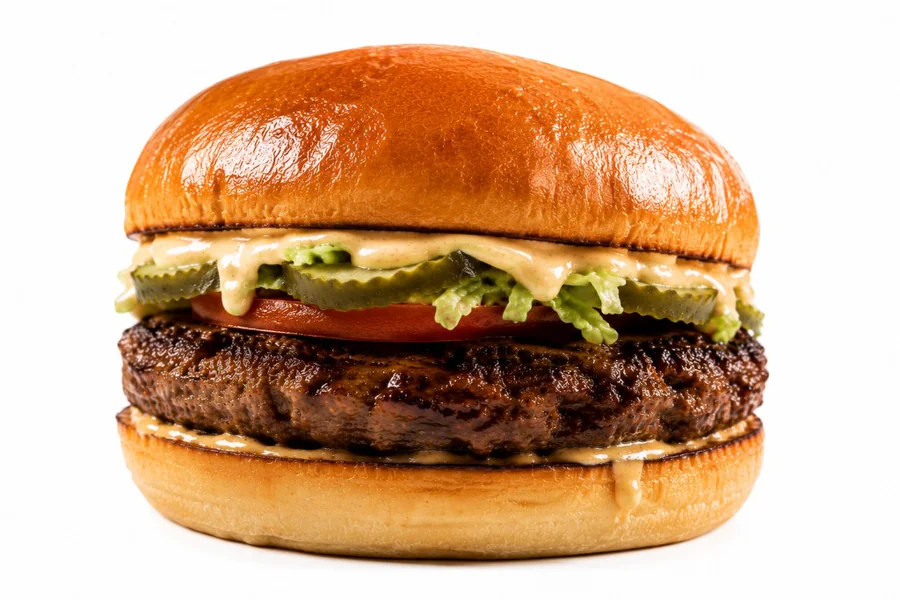
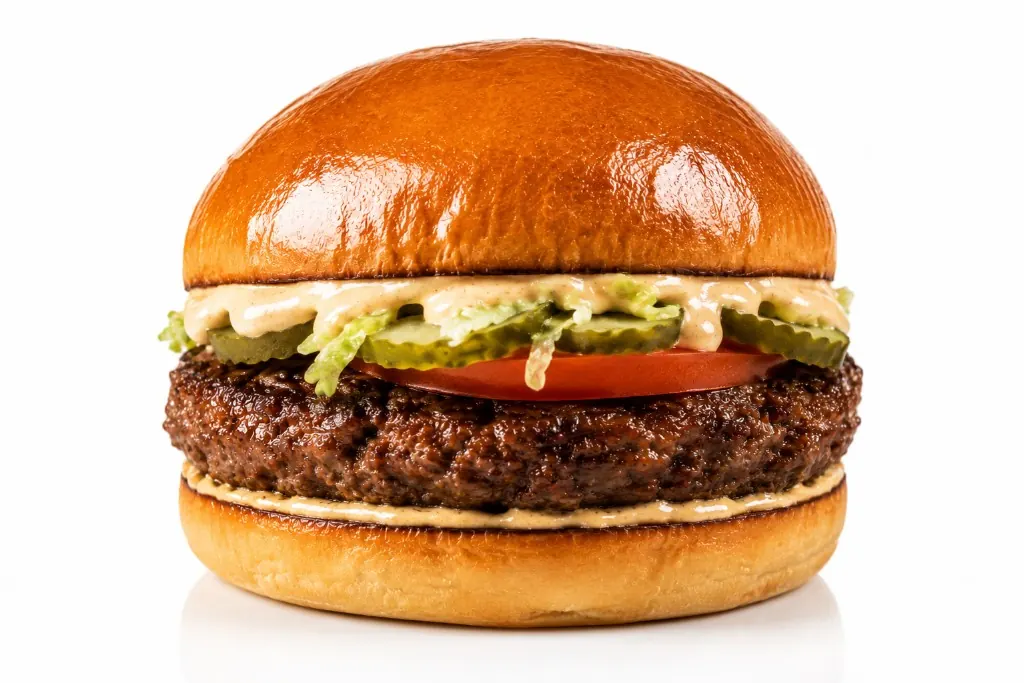
update

diff --git a/src/components/features/home/home-brand-story-section.tsx b/src/components/features/home/home-brand-story-section.tsx
@@ -6,7 +6,7 @@ import { resolveImageAlt } from "@/lib/image-alt";
 import { layoutHomeStoryContent } from "@/lib/seo-content/home-story-layout";
 
 /** Bump when replacing public/images/home/story-section-burger.webp */
-const HOME_STORY_IMAGE_VERSION = "1";
+const HOME_STORY_IMAGE_VERSION = "2";
 const HOME_STORY_IMAGE_URL = `${HOME_STORY_IMAGE}?v=${HOME_STORY_IMAGE_VERSION}`;
 
 export async function HomeBrandStorySection() {
